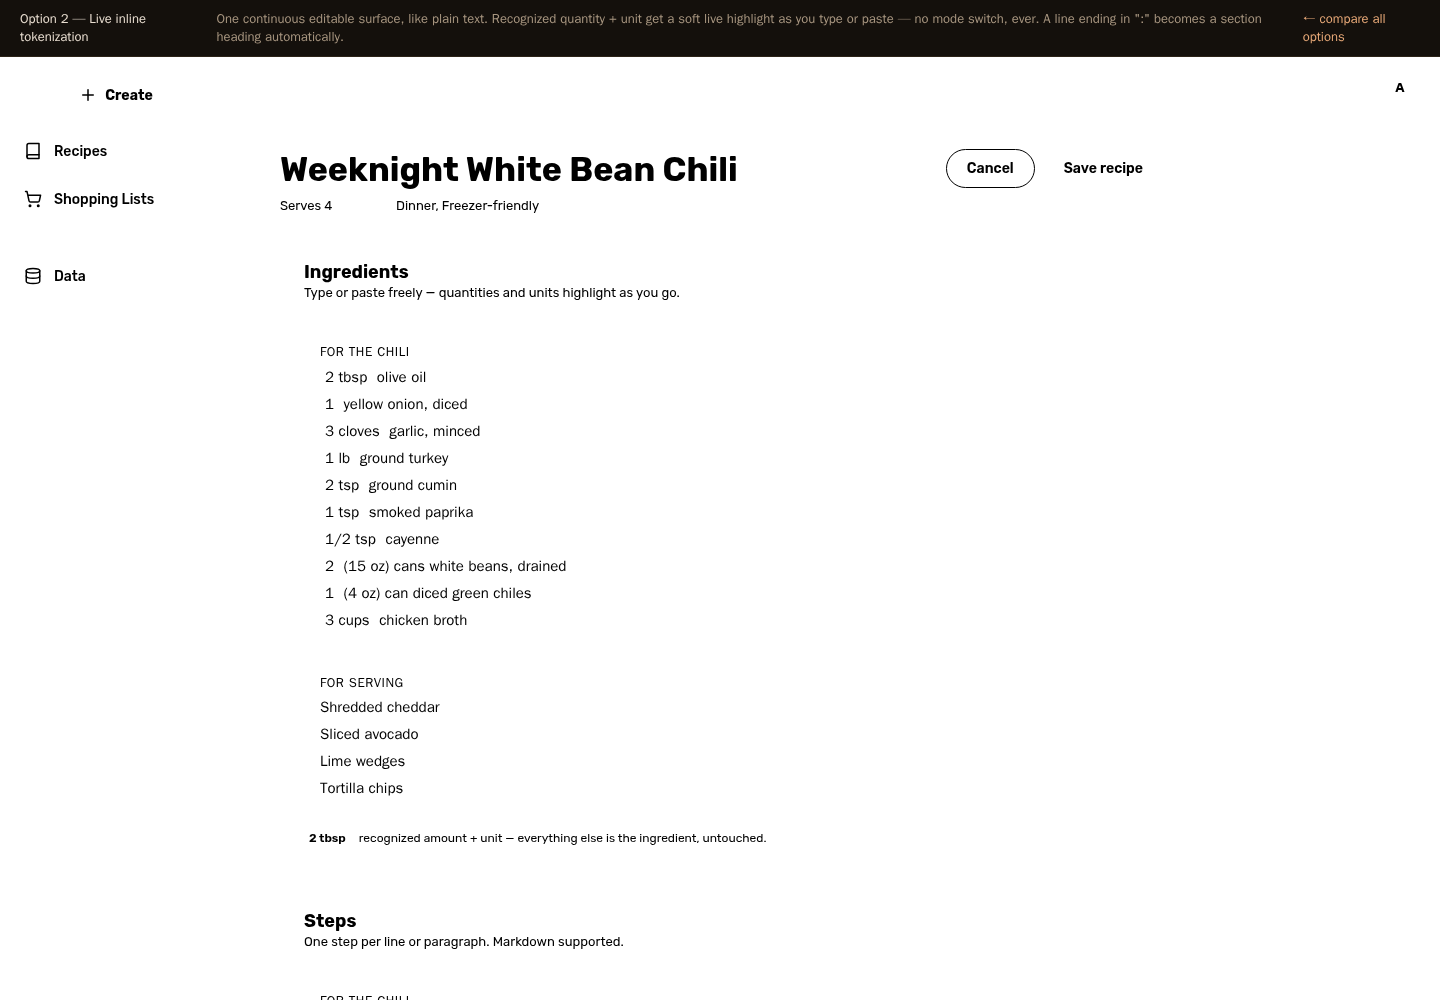
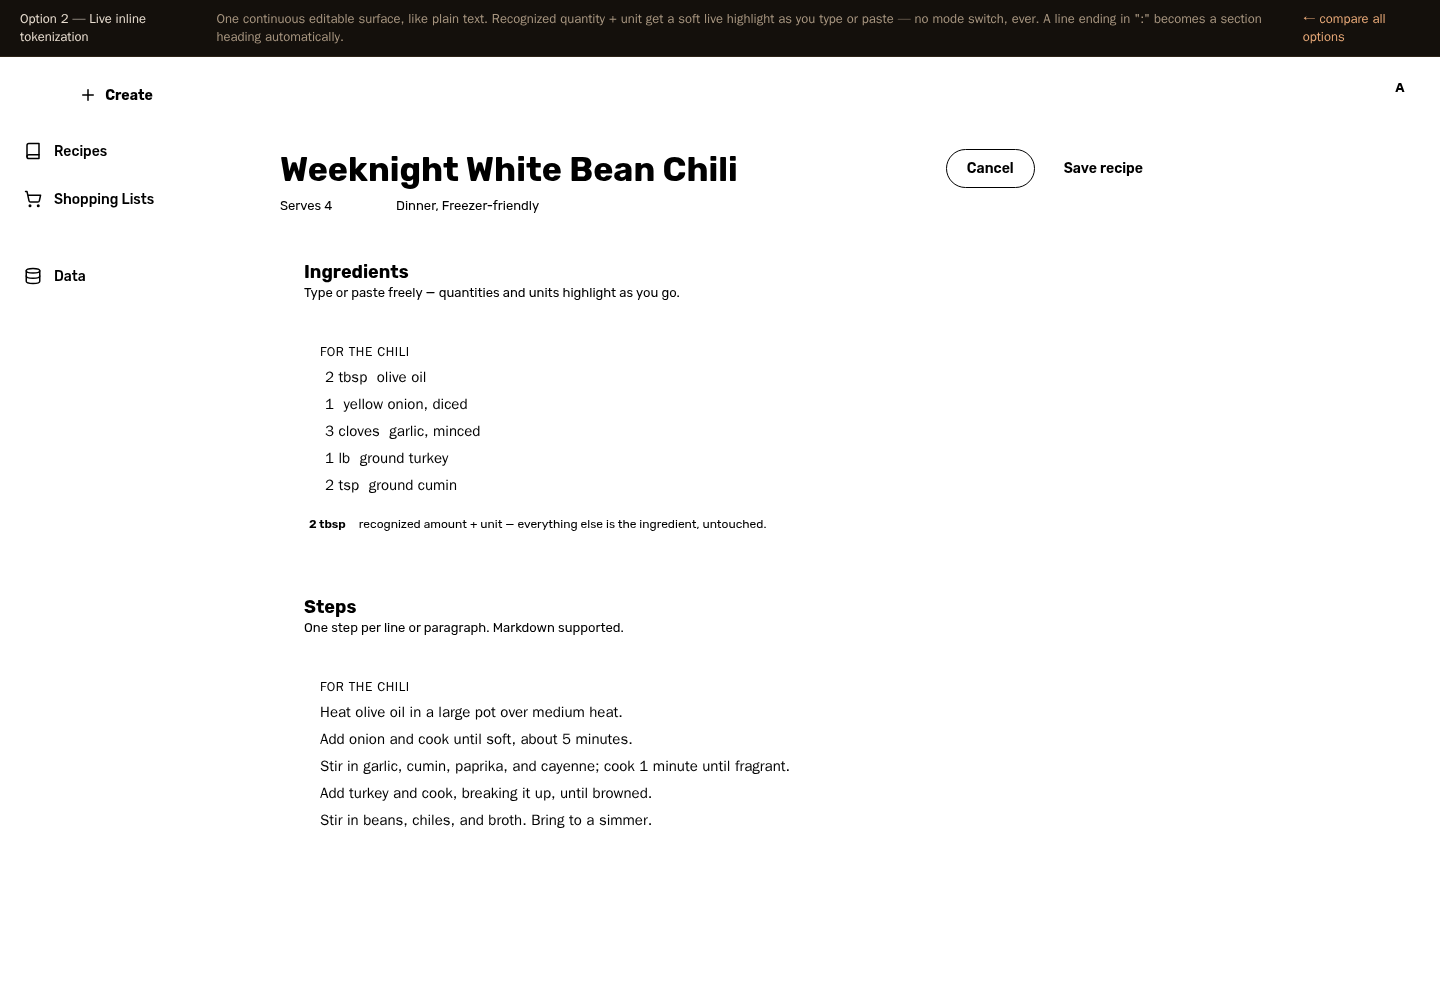
DAMN-2 mockups: fix cursor jumping in the live-inline entry option
Root cause: the contenteditable rebuild-on-every-keystroke measured
caret position with Range.toString() (no line-break chars between line
divs) but rebuilt from innerText (which inserts them), then tried to
patch the mismatch with a "+1 per line" heuristic that broke on any
line with more than one text node — i.e. every line that got a
quantity/unit highlight, which is most of them. Not a one-line fix.

Replaced with the standard syntax-highlighted-textarea technique: a
native, fully transparent <textarea> (caret-color kept visible) owns
all typing/cursor/selection, with a non-interactive layer stacked
exactly behind it rendering the same text with highlight spans. The
browser owns the cursor entirely now, same as options 1 and 3 — the
whole bug class is gone, not patched. Verified with a scripted
Playwright typing test (cursor position exact after repeated keystrokes
mid-line, including on a highlighted line) before re-capturing the
screenshot.

diff --git a/docs/features/DAMN-2-recipe-entry-and-versioning/mockups/entry-option-2-live-inline.html b/docs/features/DAMN-2-recipe-entry-and-versioning/mockups/entry-option-2-live-inline.html
@@ -45,12 +45,27 @@
   .panel-head .hint { color: var(--color-text-tertiary); font-size: var(--text-sm); margin: 0; }
   .panel-body { padding: var(--space-5); }
 
-  .editable {
-    min-height: 180px; border: 1px solid var(--color-border); border-radius: var(--radius-md);
-    padding: var(--space-4); font: var(--text-base)/1.8 var(--font-sans); color: var(--color-text-primary);
-    background: var(--color-bg-primary); white-space: pre-wrap;
+  /*
+   * Live highlight, no contenteditable: a native <textarea> handles all typing,
+   * selection, and cursor behavior (the same browser-native behavior options 1 and 3
+   * get for free) — it is fully transparent (text color, not just background), with
+   * a visible caret via caret-color. A non-interactive layer sits directly behind it,
+   * pixel-identical font/padding/line-height, rendering the same text with highlight
+   * spans. Re-rendering that layer on every keystroke never touches the real cursor,
+   * because the cursor was never anything but the textarea's own.
+   */
+  .token-field { position: relative; min-height: 180px; border: 1px solid var(--color-border); border-radius: var(--radius-md); background: var(--color-bg-primary); overflow: hidden; }
+  .token-field:focus-within { outline: 2px solid var(--color-focus); outline-offset: 1px; }
+  .token-field .layer {
+    position: absolute; inset: 0; margin: 0; padding: var(--space-4); border: none;
+    font: var(--text-base)/1.8 var(--font-sans); white-space: pre-wrap; word-wrap: break-word;
+    box-sizing: border-box; overflow: auto;
   }
-  .editable:focus { outline: 2px solid var(--color-focus); outline-offset: 1px; }
+  .token-field .overlay { color: var(--color-text-primary); pointer-events: none; }
+  .token-field textarea.input-layer {
+    resize: none; background: transparent; color: transparent; caret-color: var(--color-text-primary);
+  }
+  .token-field textarea.input-layer:focus { outline: none; }
   .eline { min-height: 1.8em; }
   .eline.eheading { font-size: var(--text-sm); font-weight: var(--weight-semibold); color: var(--color-accent); text-transform: uppercase; letter-spacing: var(--tracking-caps); margin-top: 10px; }
   .eline.eheading:first-child { margin-top: 0; }
@@ -99,7 +114,10 @@
         <p class="hint">Type or paste freely — quantities and units highlight as you go.</p>
       </div>
       <div class="panel-body">
-        <div class="editable" id="ing-editable" contenteditable="true" data-mode="ing"></div>
+        <div class="token-field">
+          <div class="layer overlay" id="ing-overlay" aria-hidden="true"></div>
+          <textarea class="layer input-layer" id="ing-input" spellcheck="false"></textarea>
+        </div>
         <div class="legend"><span class="tok-amt">2 tbsp</span> recognized amount + unit — everything else is the ingredient, untouched.</div>
       </div>
     </section>
@@ -110,7 +128,10 @@
         <p class="hint">One step per line or paragraph. Markdown supported.</p>
       </div>
       <div class="panel-body">
-        <div class="editable" id="steps-editable" contenteditable="true" data-mode="steps"></div>
+        <div class="token-field">
+          <div class="layer overlay" id="steps-overlay" aria-hidden="true"></div>
+          <textarea class="layer input-layer" id="steps-input" spellcheck="false"></textarea>
+        </div>
       </div>
     </section>
   </main>
@@ -170,58 +191,28 @@ Ladle into bowls and top with cheese, avocado, and a squeeze of lime.`;
     return { html: `<span class="tok-amt">${escapeHtml(amt)}</span> ${escapeHtml(rest)}`, heading: false };
   }
 
-  function getCaretOffset(el) {
-    const sel = window.getSelection();
-    if (!sel.rangeCount) return 0;
-    const range = sel.getRangeAt(0);
-    const pre = range.cloneRange();
-    pre.selectNodeContents(el);
-    pre.setEnd(range.endContainer, range.endOffset);
-    return pre.toString().length;
-  }
-
-  function setCaretOffset(el, offset) {
-    const sel = window.getSelection();
-    const range = document.createRange();
-    const walker = document.createTreeWalker(el, NodeFilter.SHOW_TEXT, null);
-    let node, remaining = offset;
-    while ((node = walker.nextNode())) {
-      if (remaining <= node.length) {
-        range.setStart(node, Math.max(0, remaining));
-        range.collapse(true);
-        sel.removeAllRanges();
-        sel.addRange(range);
-        return;
-      }
-      remaining -= node.length + 1; // +1 for the implicit newline between line divs
-    }
-    range.selectNodeContents(el);
-    range.collapse(false);
-    sel.removeAllRanges();
-    sel.addRange(range);
-  }
-
-  function seedEditable(el, text, isIngredient) {
-    el.innerHTML = text.split('\n').map(line => {
+  function renderOverlay(overlayEl, text, isIngredient) {
+    overlayEl.innerHTML = text.split('\n').map(line => {
       const r = renderLine(line, isIngredient);
       return `<div class="eline${r.heading ? ' eheading' : ''}">${r.html || '<br>'}</div>`;
     }).join('');
   }
 
-  function rerender(el, isIngredient) {
-    const offset = getCaretOffset(el);
-    const text = el.innerText.replace(/\n$/, '');
-    seedEditable(el, text, isIngredient);
-    setCaretOffset(el, offset);
+  function wireField(inputId, overlayId, seed, isIngredient) {
+    const input = document.getElementById(inputId);
+    const overlay = document.getElementById(overlayId);
+    input.value = seed;
+    renderOverlay(overlay, seed, isIngredient);
+    // The textarea is the only editable surface — the browser owns cursor/selection
+    // entirely. Re-rendering the overlay on every keystroke never touches it.
+    input.addEventListener('input', () => renderOverlay(overlay, input.value, isIngredient));
+    // Layers are stacked, not scrolled together automatically — keep the highlight
+    // layer's scroll position matched to what's actually being typed in.
+    input.addEventListener('scroll', () => { overlay.scrollTop = input.scrollTop; });
   }
 
-  const ingEl = document.getElementById('ing-editable');
-  const stepsEl = document.getElementById('steps-editable');
-  seedEditable(ingEl, ING_SEED, true);
-  seedEditable(stepsEl, STEPS_SEED, false);
-
-  ingEl.addEventListener('input', () => rerender(ingEl, true));
-  stepsEl.addEventListener('input', () => rerender(stepsEl, false));
+  wireField('ing-input', 'ing-overlay', ING_SEED, true);
+  wireField('steps-input', 'steps-overlay', STEPS_SEED, false);
 </script>
 
 </body>
